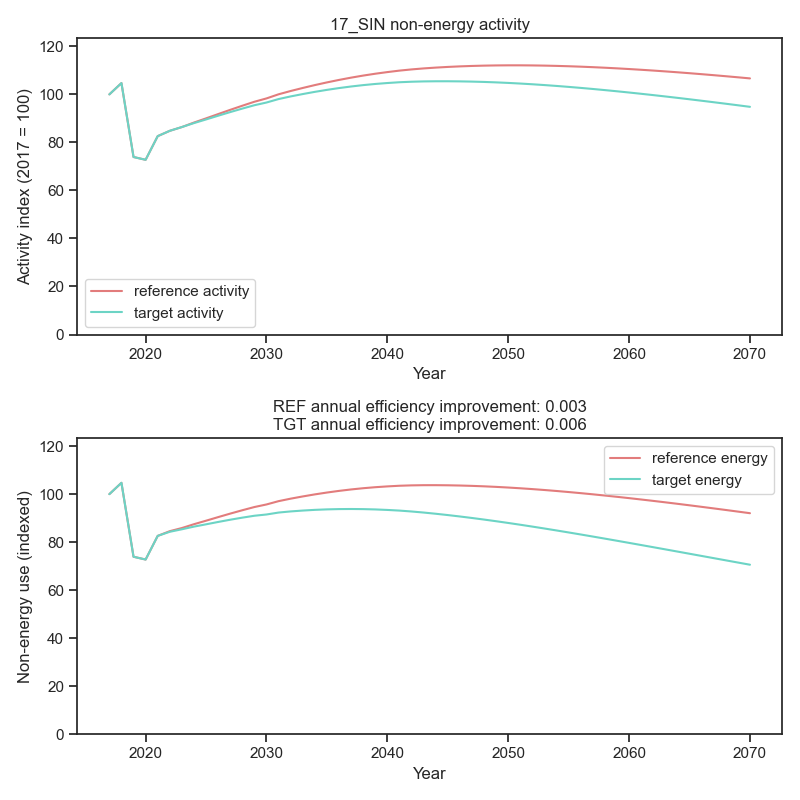
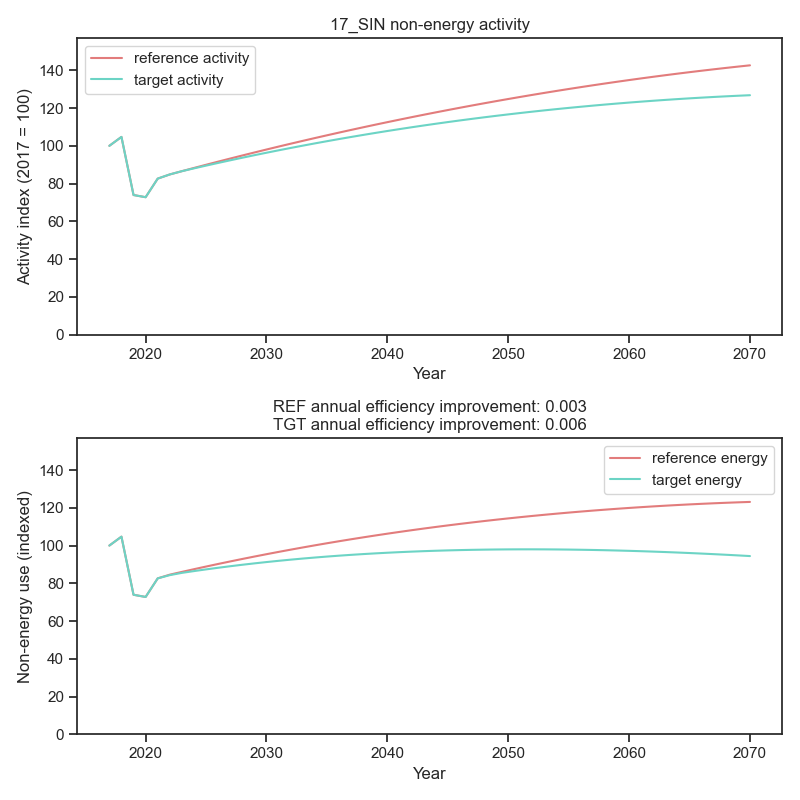
updates 7Dec

diff --git a/workflow/scripts/d3_trajectory_refine.py b/workflow/scripts/d3_trajectory_refine.py
@@ -366,6 +366,10 @@ industry_traj(economy = '17_SIN', sub1sectors = ind1[2], sub2sectors = ind2[9], 
 
 # Non-specified: no adjustment
 
+# Non energy
+nonenergy_traj(economy = '17_SIN', proj_start_year = 2022,
+              shape = 'decrease', magnitude = 1.8, data = nonenergy_production)
+
 ##################### Chinese Taipei ######################################################################
 # Mining: no adjustment
 
